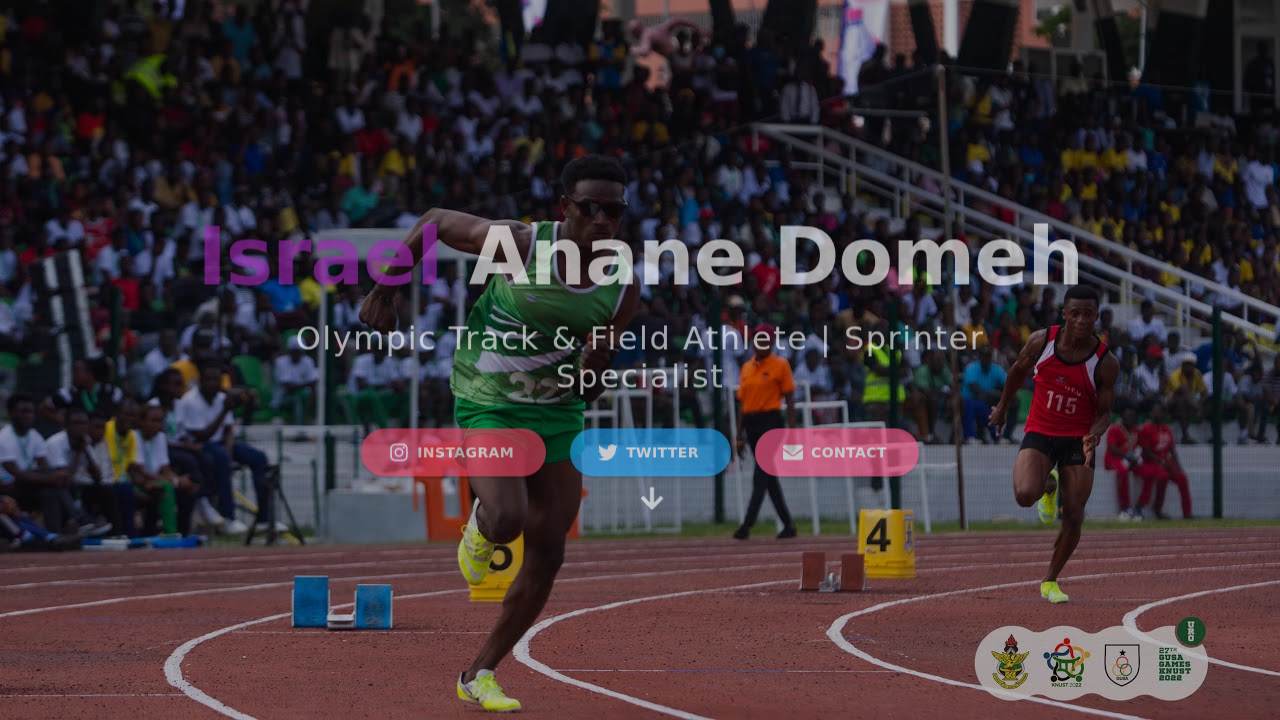
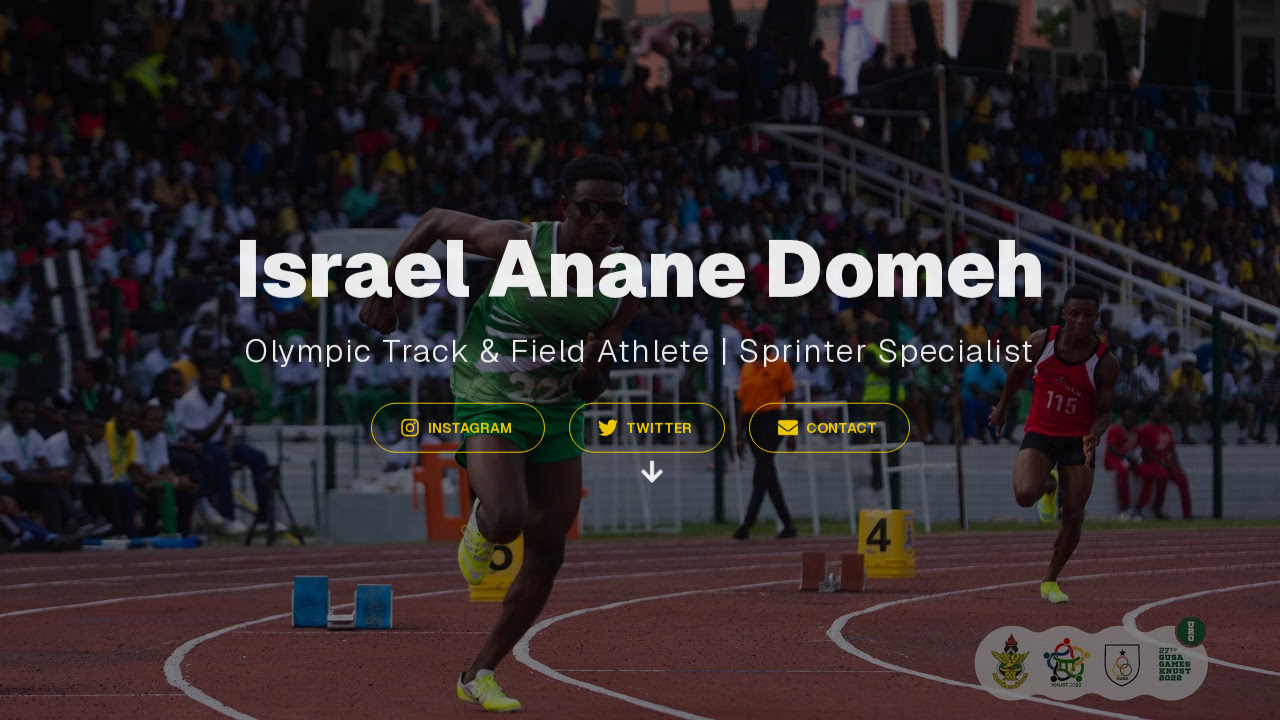
Enhance UI and User Experience
- Improved hero section readability by adding an overlay and adjusting text color.
- Introduced a new, professional color palette and improved typography with a custom MUI theme.
- Redesigned social media buttons for a more modern look.
- Added hover effects to cards and scroll animations to sections for a more dynamic experience.

diff --git a/src/app/data.js b/src/app/data.js
@@ -2,17 +2,17 @@ import { FaClock, FaBullseye, FaDumbbell, FaInstagram, FaTwitter, FaEnvelope, Fa
 
 export const personalBests = [
   {
-    icon: <FaClock sx={{ fontSize: 40, color: 'blue' }} />,
+    icon: <FaClock sx={{ fontSize: 40, color: 'secondary.main' }} />,
     value: '9.89s',
     title: '100m Sprint',
   },
   {
-    icon: <FaBullseye sx={{ fontSize: 40, color: 'green' }} />,
+    icon: <FaBullseye sx={{ fontSize: 40, color: 'secondary.main' }} />,
     value: '8.45m',
     title: 'Long Jump',
   },
   {
-    icon: <FaDumbbell sx={{ fontSize: 40, color: 'red' }} />,
+    icon: <FaDumbbell sx={{ fontSize: 40, color: 'secondary.main' }} />,
     value: '21.50m',
     title: 'Shot Put',
   },
@@ -23,40 +23,40 @@ export const socialLinks = [
       platform: 'Instagram',
       icon: <FaInstagram />,
       url: '#',
-      color: '#E4405F',
+      color: '#FFD700',
     },
     {
       platform: 'Twitter',
       icon: <FaTwitter />,
       url: '#',
-      color: '#1DA1F2',
+      color: '#FFD700',
     },
     {
       platform: 'Contact',
       icon: <FaEnvelope />,
       url: 'mailto:contact@example.com',
-      color: '#FF5C8D',
+      color: '#FFD700',
     },
   ];
 
 export const stats = [
     {
-      icon: <FaStar sx={{ fontSize: 40, color: 'gold' }} />,
+      icon: <FaStar sx={{ fontSize: 40, color: 'secondary.main' }} />,
       value: '4',
       label: 'World Records',
     },
     {
-      icon: <FaRunning sx={{ fontSize: 40, color: 'blue' }} />,
+      icon: <FaRunning sx={{ fontSize: 40, color: 'secondary.main' }} />,
       value: '10',
       label: 'Years Pro',
     },
     {
-      icon: <FaBullseye sx={{ fontSize: 40, color: 'green' }} />,
+      icon: <FaBullseye sx={{ fontSize: 40, color: 'secondary.main' }} />,
       value: '8.45m',
       label: 'Long Jump',
     },
     {
-      icon: <FaDumbbell sx={{ fontSize: 40, color: 'red' }} />,
+      icon: <FaDumbbell sx={{ fontSize: 40, color: 'secondary.main' }} />,
       value: '21.50m',
       label: 'Shot Put',
     },

diff --git a/src/components/HeroSection.js b/src/components/HeroSection.js
@@ -43,10 +43,10 @@ const HeroSection = () => {
         overflow: 'hidden',
       }}
     >
-      {/* Image without lazy loading */}
+      {/* Background image */}
       <Box
         component="img"
-        src="/israel.jpg" 
+        src="/israel.jpg"
         alt="Israel Anane Domeh in action"
         sx={{
           position: 'absolute',
@@ -55,13 +55,22 @@ const HeroSection = () => {
           width: '100%',
           height: '100%',
           objectFit: 'cover',
-          filter: 'brightness(0.7)',
           transition: 'transform 0.3s ease-out',
           transform: `scale(${isScrolling ? 1.05 : 1})`,
         }}
       />
-
-      <Container sx={{ 
+      {/* Overlay */}
+      <Box
+        sx={{
+          position: 'absolute',
+          top: 0,
+          left: 0,
+          width: '100%',
+          height: '100%',
+          backgroundColor: 'rgba(0, 0, 0, 0.5)',
+        }}
+      />
+      <Container sx={{
         position: 'relative',
         zIndex: 1,
         animation: `${fadeIn} 1s ease-out`,
@@ -76,10 +85,10 @@ const HeroSection = () => {
             mb: 2,
           }}
         >
-          <Box component="span" sx={{ color: 'secondary.main' }}>Israel</Box> Anane Domeh
+          <Box component="span" sx={{ color: 'common.white' }}>Israel</Box> Anane Domeh
         </Typography>
         
-        <Typography 
+        <Typography
           variant="h2"
           sx={{
             fontSize: { xs: '1.25rem', sm: '2rem' },

diff --git a/src/components/SocialButton.js b/src/components/SocialButton.js
@@ -1,10 +1,10 @@
 import React from 'react';
 import { Button } from '@mui/material';
 
-const SocialButton = ({ platform, icon, url, color }) => {
+const SocialButton = ({ platform, icon, url }) => {
   return (
     <Button
-      variant="contained"
+      variant="outlined"
       startIcon={icon}
       href={url}
       sx={{
@@ -13,13 +13,14 @@ const SocialButton = ({ platform, icon, url, color }) => {
         borderRadius: '50px',
         fontWeight: 600,
         transition: 'all 0.3s ease',
-        transformOrigin: 'center',
-        backgroundColor: color,
-        color: 'white',
+        borderColor: 'secondary.main',
+        color: 'secondary.main',
         '&:hover': {
+          backgroundColor: 'secondary.main',
+          color: 'primary.main',
+          borderColor: 'secondary.main',
           transform: 'translateY(-2px)',
-          boxShadow: (theme) => `0 5px 15px ${theme.palette.primary.main}33`,
-          backgroundColor: color,
+          boxShadow: (theme) => `0 5px 15px ${theme.palette.secondary.main}33`,
         },
         '&:active': {
           transform: 'translateY(0)',

diff --git a/src/components/PersonalBestCard.js b/src/components/PersonalBestCard.js
@@ -3,10 +3,25 @@ import { Grid, Typography } from '@mui/material';
 
 const PersonalBestCard = ({ icon, value, title }) => {
   return (
-    <Grid item xs={12} md={4} textAlign="center" sx={{ backgroundColor: 'white', p: 4, borderRadius: 2 }}>
+    <Grid
+      item
+      xs={12}
+      md={4}
+      textAlign="center"
+      sx={{
+        backgroundColor: 'background.paper',
+        p: 4,
+        borderRadius: 2,
+        transition: 'all 0.3s ease',
+        '&:hover': {
+          transform: 'translateY(-5px)',
+          boxShadow: (theme) => `0 10px 20px ${theme.palette.secondary.main}1A`,
+        },
+      }}
+    >
       {icon}
-      <Typography variant="h4">{value}</Typography>
-      <Typography variant="h6">{title}</Typography>
+      <Typography variant="h4" sx={{ color: 'secondary.main' }}>{value}</Typography>
+      <Typography variant="h6" sx={{ color: 'text.primary' }}>{title}</Typography>
     </Grid>
   );
 };

diff --git a/src/hooks/useScrollAnimation.js b/src/hooks/useScrollAnimation.js
@@ -1,0 +1,37 @@
+"use client";
+import { useEffect, useRef, useState } from 'react';
+
+const useScrollAnimation = (options) => {
+  const ref = useRef(null);
+  const [isVisible, setIsVisible] = useState(false);
+
+  useEffect(() => {
+    const observer = new IntersectionObserver(([entry]) => {
+      if (entry.isIntersecting) {
+        setIsVisible(true);
+        observer.disconnect();
+      }
+    }, options);
+
+    if (ref.current) {
+      observer.observe(ref.current);
+    }
+
+    return () => {
+      if (ref.current) {
+        observer.unobserve(ref.current);
+      }
+    };
+  }, [ref, options]);
+
+  return {
+    ref,
+    style: {
+      transition: 'opacity 0.5s ease-in-out, transform 0.5s ease-in-out',
+      opacity: isVisible ? 1 : 0,
+      transform: isVisible ? 'translateY(0)' : 'translateY(20px)',
+    },
+  };
+};
+
+export default useScrollAnimation;

diff --git a/src/components/PersonalBestsSection.js b/src/components/PersonalBestsSection.js
@@ -2,12 +2,15 @@ import React from 'react';
 import { Box, Container, Grid, Typography } from '@mui/material';
 import PersonalBestCard from './PersonalBestCard';
 import { personalBests } from '../app/data';
+import useScrollAnimation from '../hooks/useScrollAnimation';
 
 const PersonalBestsSection = () => {
+  const { ref, style } = useScrollAnimation({ threshold: 0.1 });
+
   return (
-    <Box sx={{ py: 8, backgroundColor: '#f5f5f5' }}>
+    <Box ref={ref} style={style} sx={{ py: 8, backgroundColor: 'background.default' }}>
       <Container>
-        <Typography variant="h3" fontWeight="bold" align="center" mb={4}>
+        <Typography variant="h3" fontWeight="bold" align="center" mb={4} sx={{ color: 'text.primary' }}>
           Personal Bests
         </Typography>
         <Grid container spacing={4} justifyContent="center">

diff --git a/src/components/StatCard.js b/src/components/StatCard.js
@@ -3,10 +3,24 @@ import { Grid, Typography } from '@mui/material';
 
 const StatCard = ({ icon, value, label }) => {
   return (
-    <Grid item xs={12} md={3} textAlign="center">
+    <Grid
+      item
+      xs={12}
+      md={3}
+      textAlign="center"
+      sx={{
+        p: 4,
+        borderRadius: 2,
+        transition: 'all 0.3s ease',
+        '&:hover': {
+          transform: 'translateY(-5px)',
+          boxShadow: (theme) => `0 10px 20px ${theme.palette.secondary.main}1A`,
+        },
+      }}
+    >
       {icon}
-      <Typography variant="h4">{value}</Typography>
-      <Typography variant="h6">{label}</Typography>
+      <Typography variant="h4" sx={{ color: 'secondary.main' }}>{value}</Typography>
+      <Typography variant="h6" sx={{ color: 'text.primary' }}>{label}</Typography>
     </Grid>
   );
 };

diff --git a/src/components/StatsSection.js b/src/components/StatsSection.js
@@ -2,12 +2,15 @@ import React from 'react';
 import { Box, Container, Grid, Typography } from '@mui/material';
 import StatCard from './StatCard';
 import { stats } from '../app/data';
+import useScrollAnimation from '../hooks/useScrollAnimation';
 
 const StatsSection = () => {
+  const { ref, style } = useScrollAnimation({ threshold: 0.1 });
+
   return (
-    <Box sx={{ py: 8, backgroundColor: 'white' }}>
+    <Box ref={ref} style={style} sx={{ py: 8, backgroundColor: 'background.paper' }}>
       <Container>
-        <Typography variant="h3" fontWeight="bold" align="center" mb={4}>
+        <Typography variant="h3" fontWeight="bold" align="center" mb={4} sx={{ color: 'text.primary' }}>
           Career Highlights
         </Typography>
         <Grid container spacing={4} justifyContent="center">

diff --git a/src/app/layout.js b/src/app/layout.js
@@ -35,6 +35,10 @@ export const metadata = {
   },
 };
 
+import { ThemeProvider } from '@mui/material/styles';
+import CssBaseline from '@mui/material/CssBaseline';
+import theme from '../theme';
+
 // RootLayout component to apply the fonts and wrap the children components.
 export default function RootLayout({ children }) {
   return (
@@ -45,7 +49,10 @@ export default function RootLayout({ children }) {
         {/* Other meta tags and links for production */}
       </head>
       <body className={`${geistSans.variable} ${geistMono.variable}`}>
-        {children}
+        <ThemeProvider theme={theme}>
+          <CssBaseline />
+          {children}
+        </ThemeProvider>
       </body>
     </html>
   );

diff --git a/src/theme.js b/src/theme.js
@@ -1,0 +1,32 @@
+"use client";
+import { createTheme } from '@mui/material/styles';
+
+const theme = createTheme({
+  palette: {
+    primary: {
+      main: '#1A1A1A', // Dark charcoal
+    },
+    secondary: {
+      main: '#FFD700', // Gold
+    },
+    text: {
+      primary: '#FFFFFF',
+      secondary: '#B0B0B0', // Light gray for secondary text
+    },
+    background: {
+      default: '#1A1A1A',
+      paper: '#2C2C2C', // Slightly lighter charcoal for paper elements
+    },
+  },
+  typography: {
+    fontFamily: 'var(--font-geist-sans)',
+    h1: {
+      fontWeight: 900,
+    },
+    h2: {
+      fontWeight: 300,
+    },
+  },
+});
+
+export default theme;
